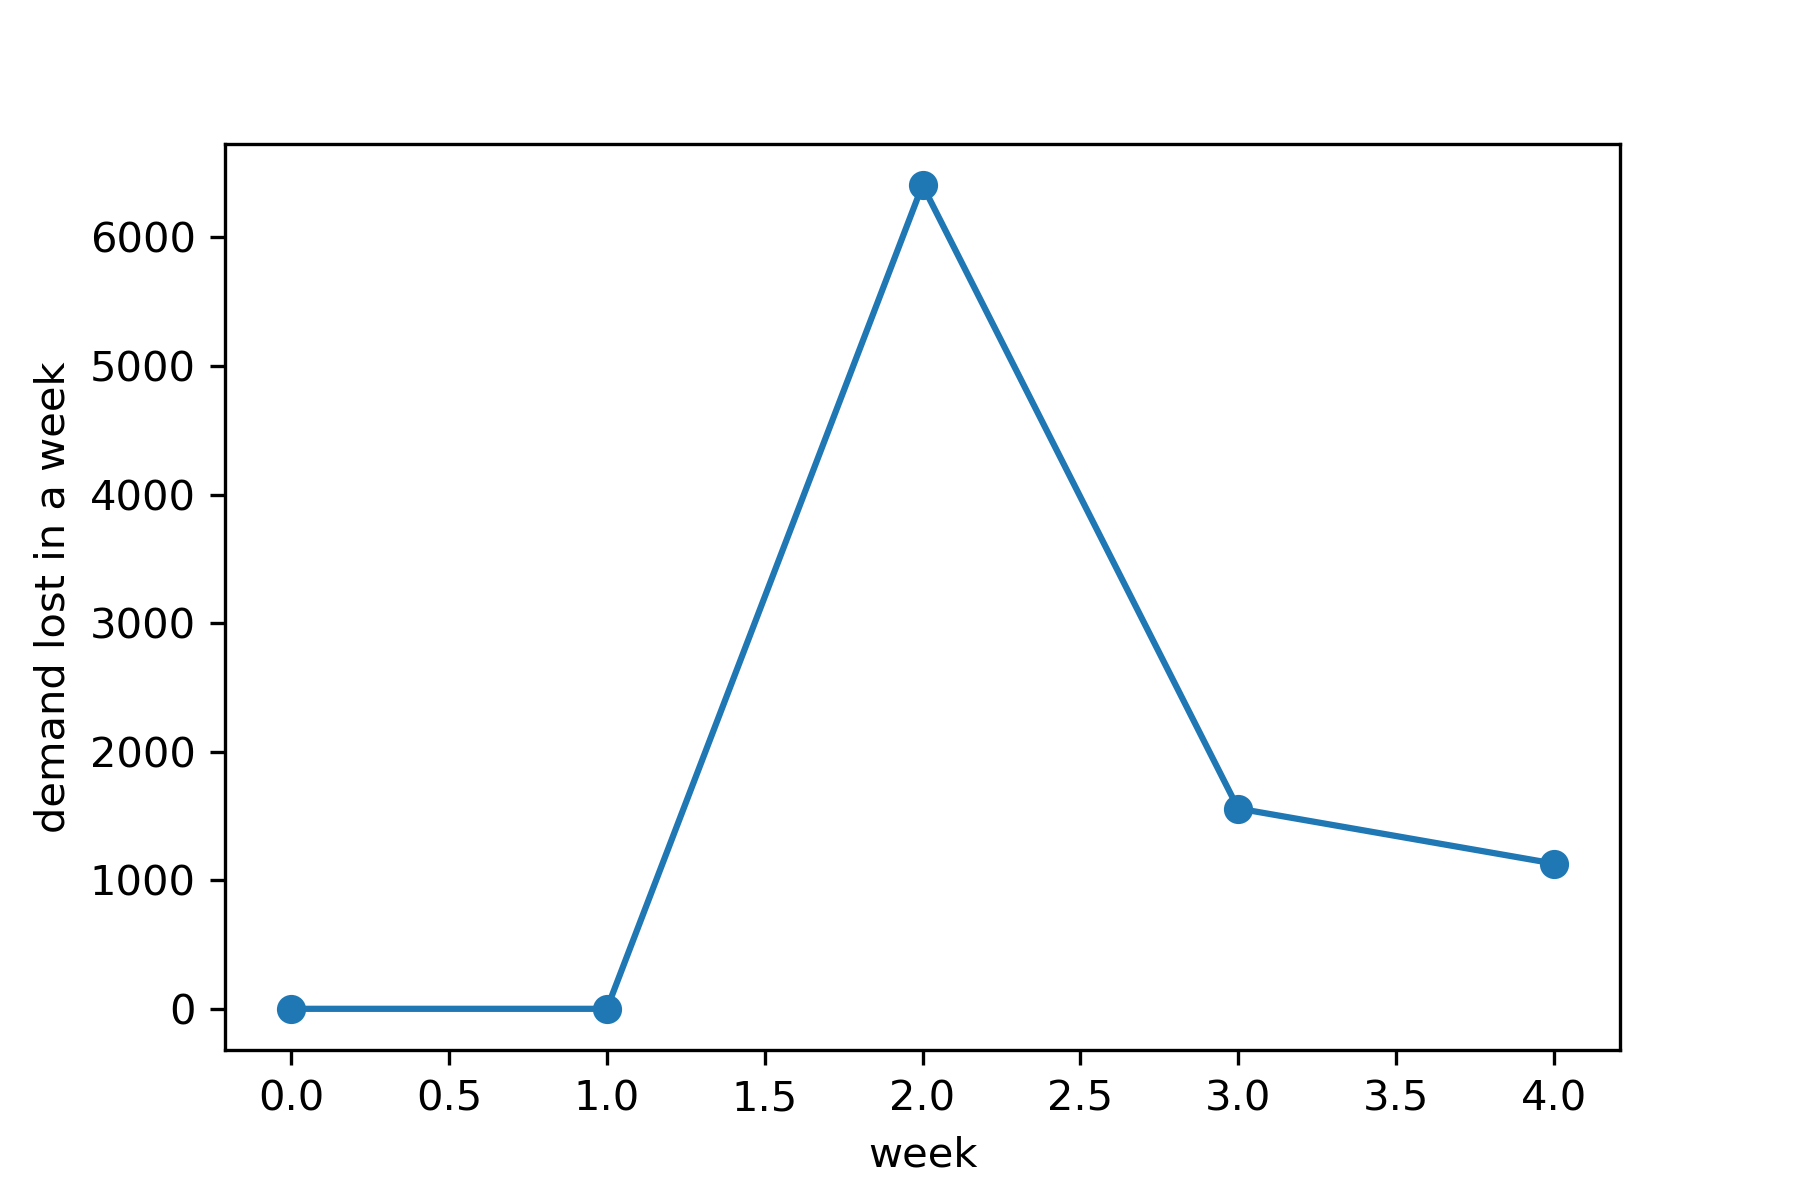
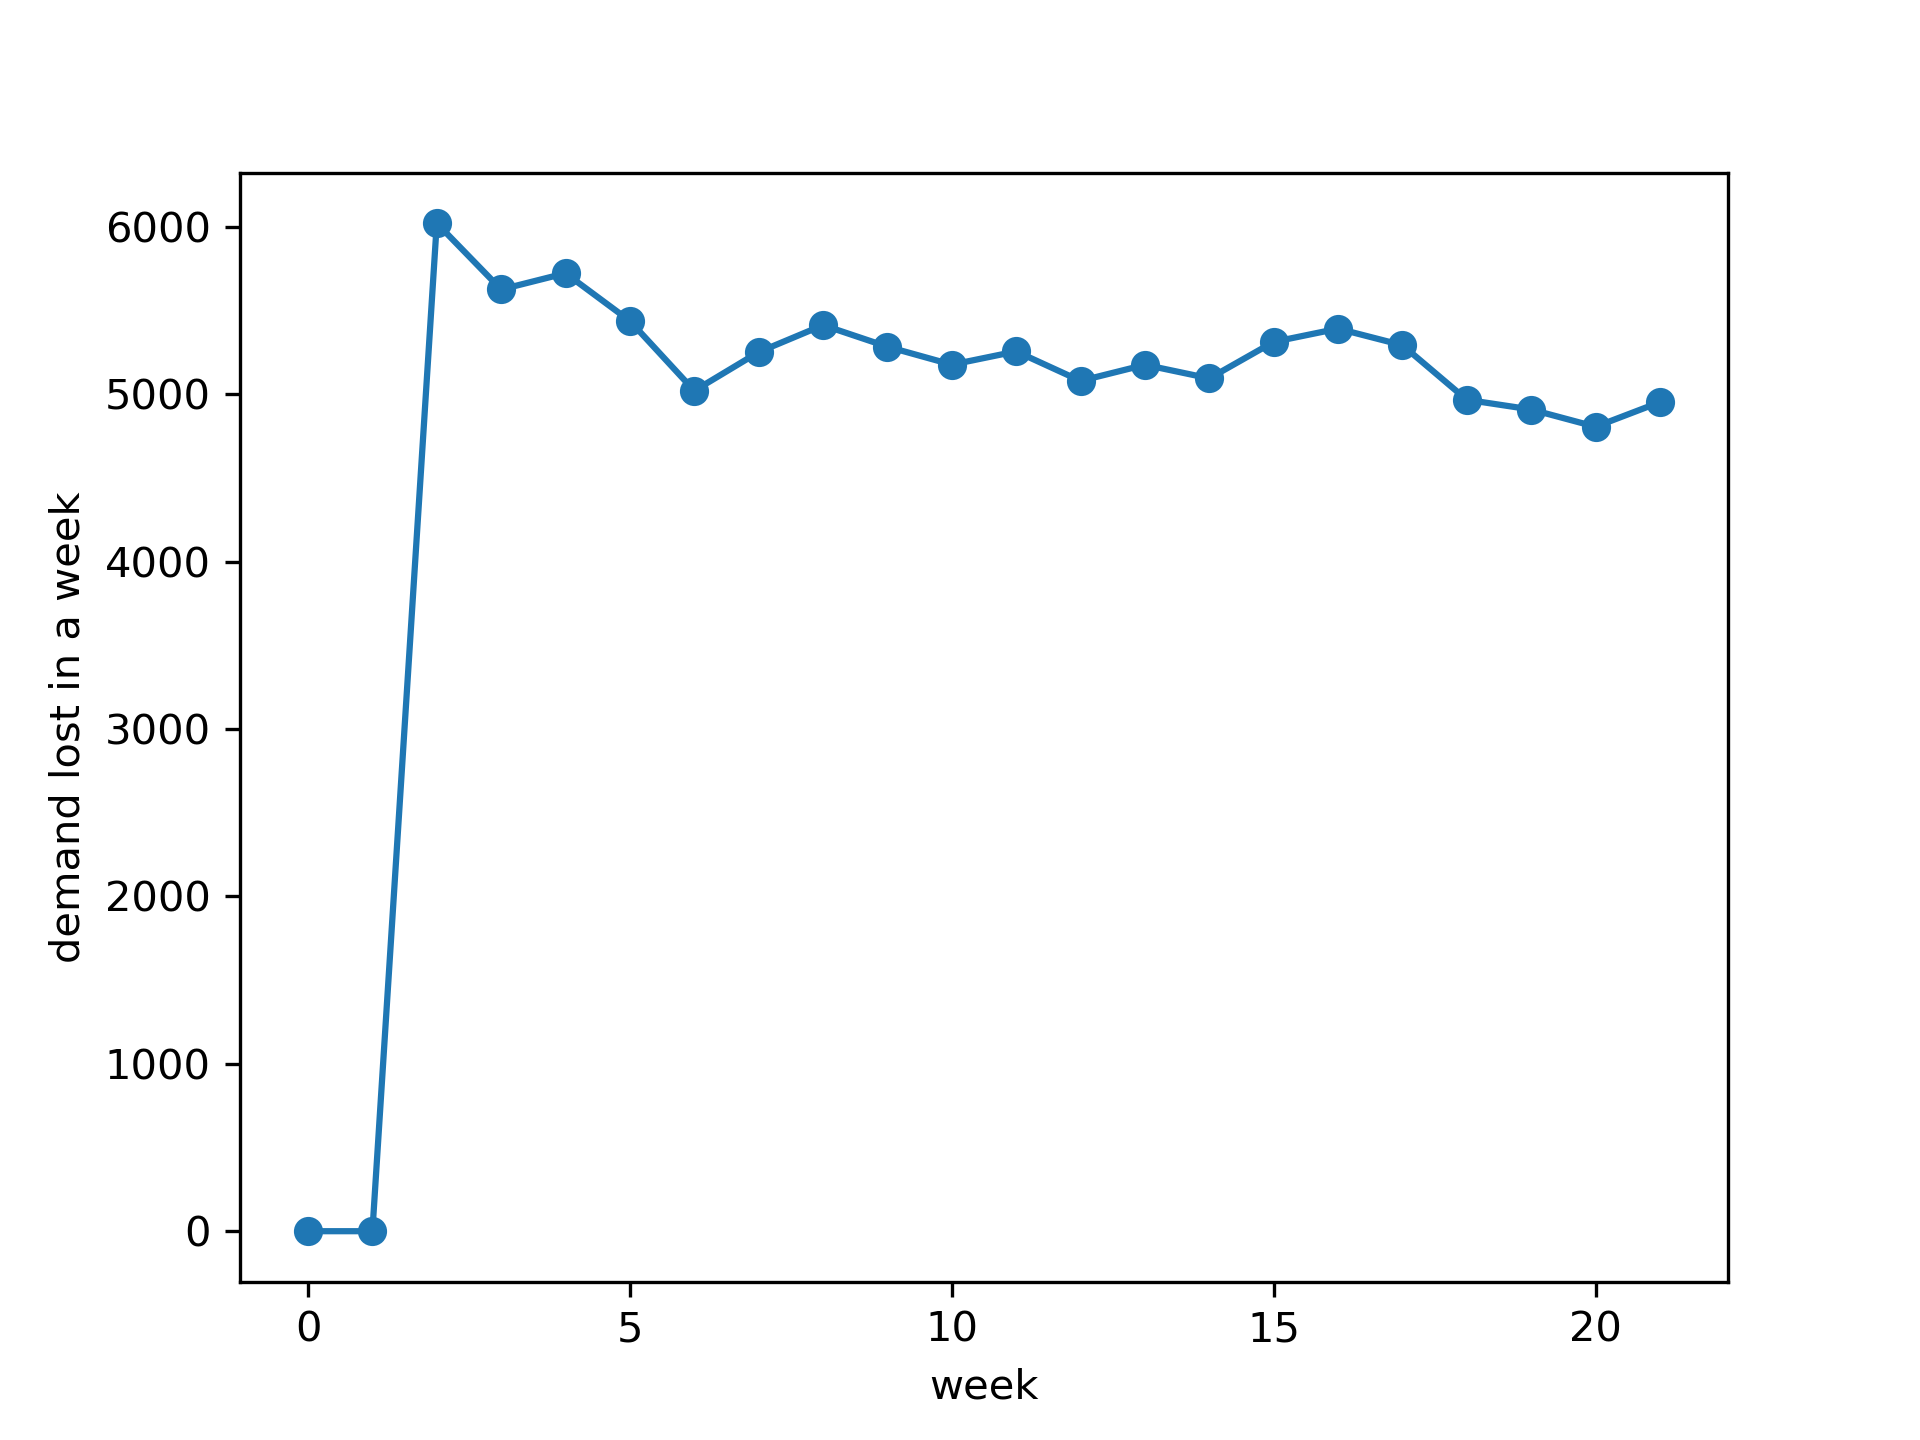
add battery charge

diff --git a/SimData.py b/SimData.py
@@ -269,7 +269,10 @@ def generate_ebike_trip(globalclock,stationid,dest,ebikeid,pickupebike=True):
     speed_ratio=2/3
     duration=td(seconds=bikingtime*np.random.lognormal(0,sigma)*speed_ratio)
     end_time=gc.t+duration
-    
+    if gc.bikes[ebikeid].SOC < 99:
+        charge_rate=0.000124
+        new_SOC=gc.bikes[ebikeid].SOC+(gc.t-gc.bikes[ebikeid].lastchargetime).seconds*charge_rate
+        gc.bikes[ebikeid].SOC=min(100,new_SOC)
     energy_per_second=0.000124 # SOC / second
     energy=duration.total_seconds()*energy_per_second
     end_SOC=max(0,gc.bikes[ebikeid].SOC-energy)
@@ -299,7 +302,7 @@ def return_ebike(globalclock,tripid,stationid):
     ebikeid=gc.trips[tripid].bike
     if len(gc.stations[stationid].ebike) < gc.stations[stationid].ebike_cap :
         gc.stations[stationid].ebike[ebikeid]=gc.bikes[ebikeid]
-        gc.bikes[ebikeid].SOC=100
+        # gc.bikes[ebikeid].SOC=100
         gc.bikes[ebikeid].lastchargetime=gc.t
         gc.stations[stationid].tripsIn.append(gc.trips[tripid])
         gc.bikes[ebikeid].trip_times=0
